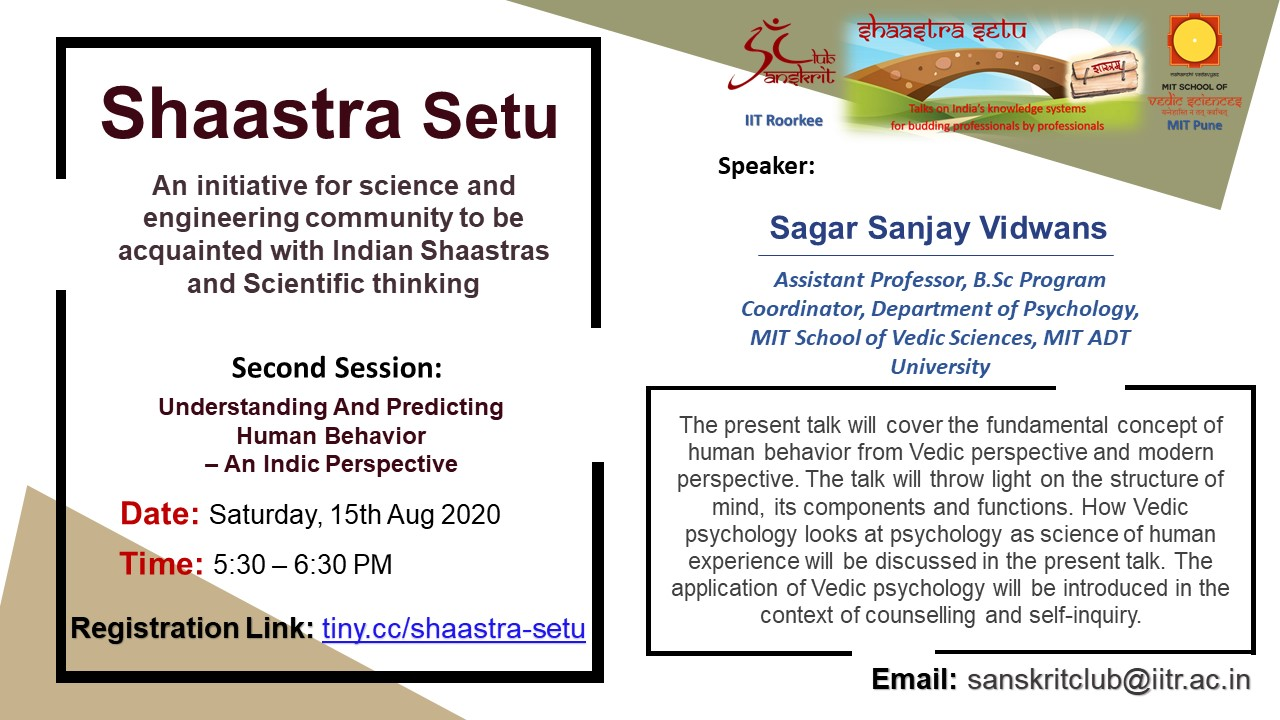
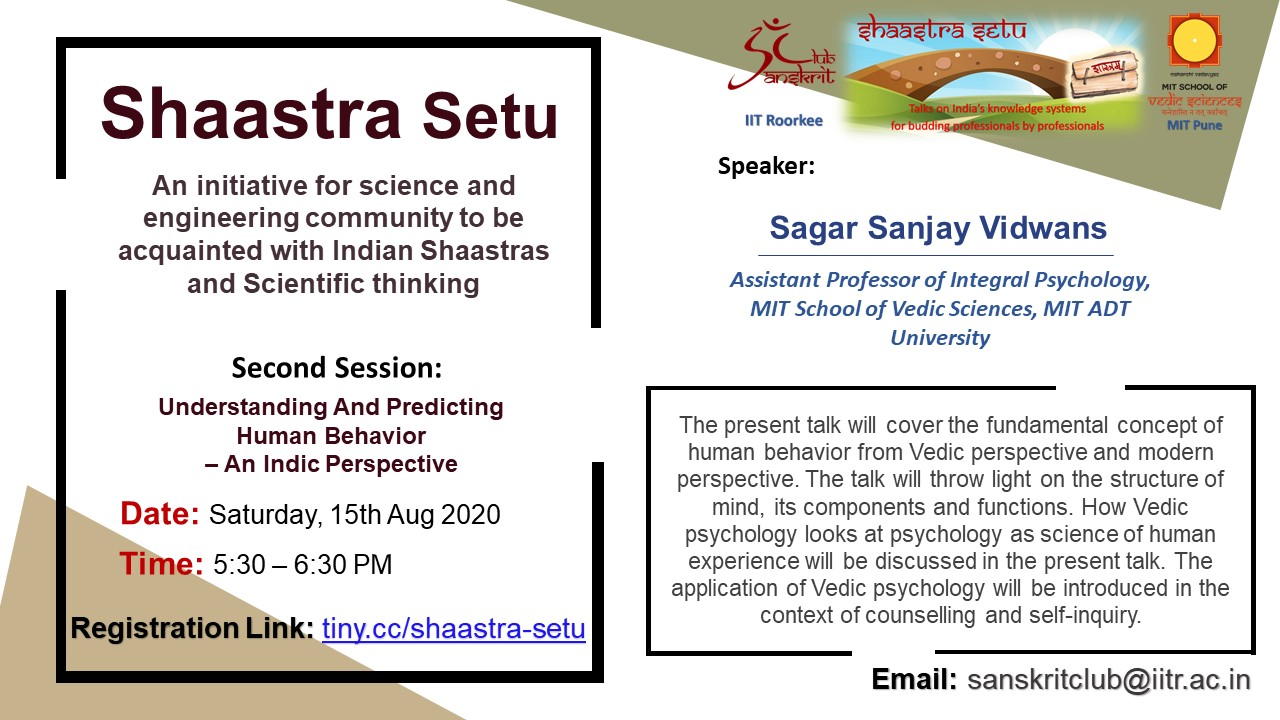
session 2 shaastra-setu added

Changed region(s): [[0.5625, 0.3667, 0.9062, 0.5194]]

diff --git a/shaastra.html b/shaastra.html
@@ -73,7 +73,6 @@
 				  <li style="color: black;">Please Click <a href="https://www.youtube.com/watch?v=8K2RaG37aRE&feature=youtu.be" target="_blank" style="color: blue;">here</a> to watch full talk</li>
 				  <li style="color: black;">Please Click <a href="./InvitationToIKS.pdf" target="_blank" style="color: blue;">here</a> to read more about IKS</li>
               <p>
-              </header>
             </div>
           </div>
         </div>
@@ -91,13 +90,14 @@
 			  </div>
 			  <div class="content">
 				<header class="align-center">
-				  <h2> Session - 2</h2><h4>Understanding and Predicting Human Behaviour- An Indic Perspective</h4><br>  
+				  <h2> Session - 2</h2><h4>Understanding and Predicting Human Behaviour: An Indic Perspective</h4><br>  
 				</header>
-				<hr />
-				<p>Sanskrit Club of IIT Roorkee is organizing yet another mesmerizing event, in collaboration with MIT School of Vedic Science, Pune. The event, called <b>Shaastra Setu</b>, is an opportunity for all our friends from science and engineering backgrounds to acquaint themselves with the Indian Shastras and Scientific Thinking.<br>                
-				  The speaker, <b>Amit Rao</b>, is a Senior Consultant and Former Research Scientist at the National Centre for Software Technology (NCST, now part of CDAC). In his words,
-				  <br>“As a technologist with interest in Sanskrit, but hardly any background in Indian Shastras, when I began learning about the various Vedic Sciences, I was fascinated by its features - the breadth and depth of inquiry, the rigorous approach, and above all, the underlying unity of thought and purpose. In this short talk, I will attempt to share some of my insights about this, highlight interesting features of this ecosystem, and set the tone for the rest of the series, in an informative and interactive manner.” </p>
-				</header>
+				<p>
+					<li style="color: black;">The session, titled ‘Understanding and Predicting Human Behaviour: An Indic Perspective’, will be hosted on Zoom, on Saturday, August 15, 2020.</li>
+					
+					<li style="color: black;">The speaker, Sagar Sanjay Vidwans, is Assistant Professor of Integral Psychology, MIT School of Vedic Sciences</li>
+					<li style="color: black;" >The talk will cover the fundamental concept of human behaviour from a Vedic perspective as well as a modern perspective. It will throw light on the structure of the mind, its components, and its functions. How Vedic Psychology looks at psychology as a science of human experience, will also be discussed. The application of Vedic psychology will be introduced, in the context of counselling and self-inquiry</li>
+				</p>
 			  </div>
 			</div>
 		  </div>
